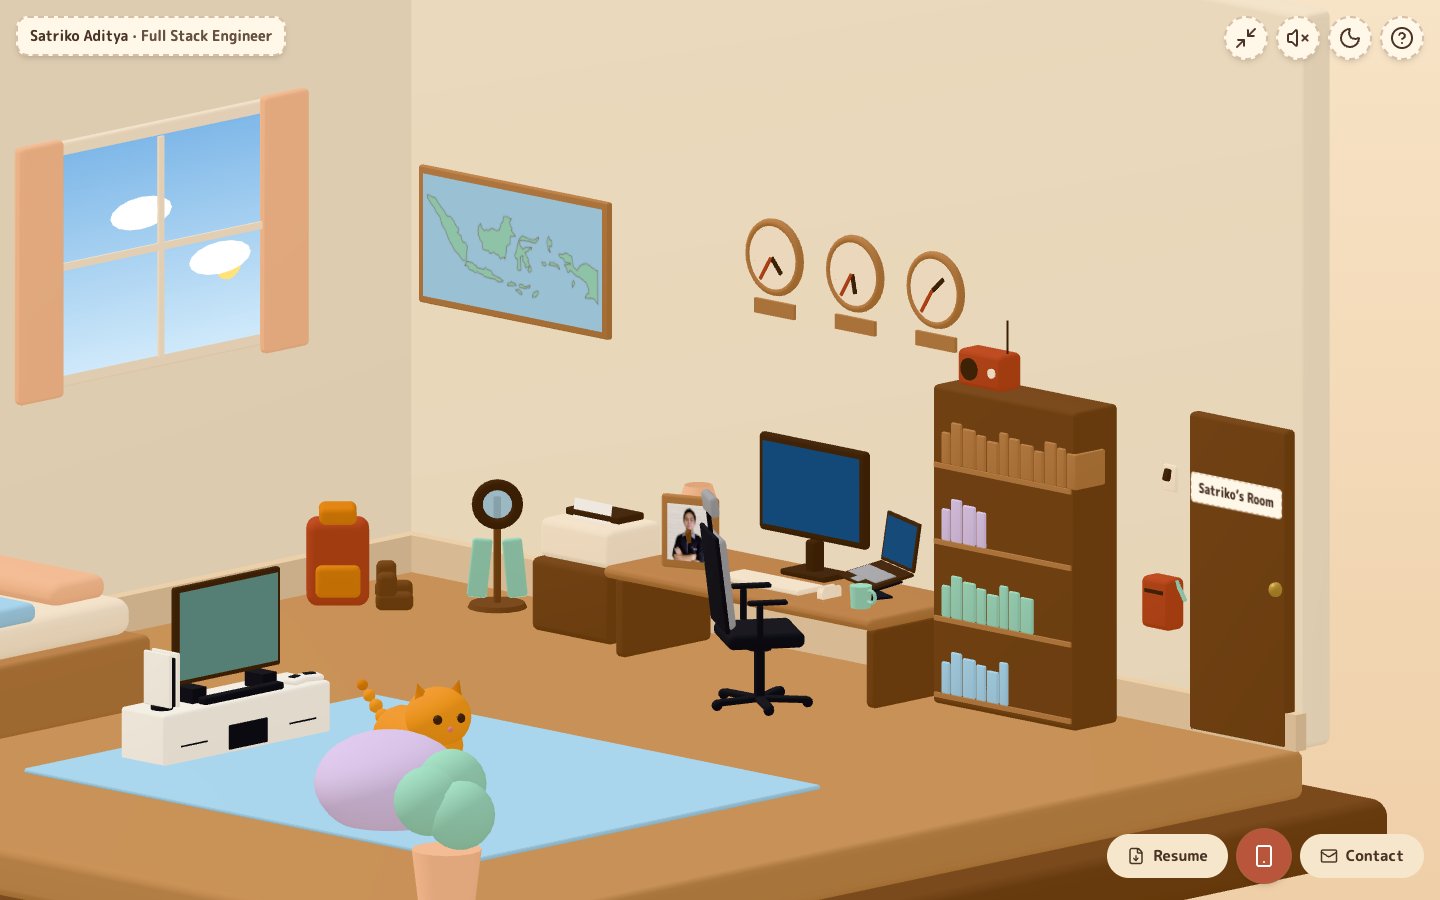
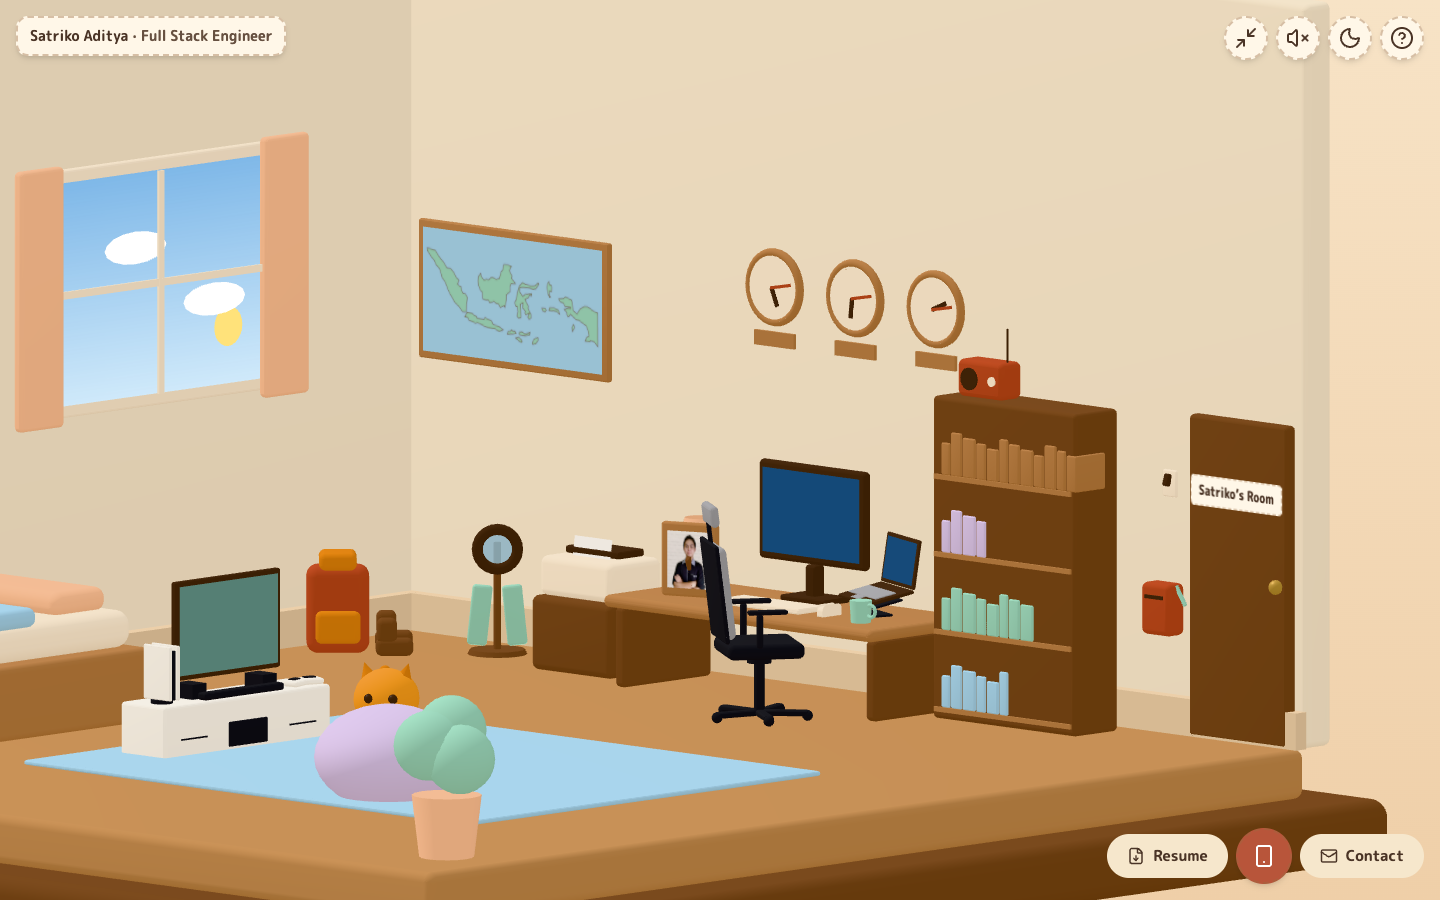
fix: wait for the panel to open in the zoom test and document the 8° angle

diff --git a/e2e/zoom.spec.ts b/e2e/zoom.spec.ts
@@ -24,6 +24,7 @@ test('scroll zooms in, a drag slides without opening anything, reset returns', a
   page,
 }, testInfo) => {
   test.skip(testInfo.project.name !== 'desktop', 'Desktop wheel and mouse')
+  test.setTimeout(60_000)
   await enterRoom(page)
   const main = page.locator('main')
   await expect(main).toHaveAttribute('data-zoomed', 'false')
@@ -60,6 +61,10 @@ test('a panel opened while zoomed in returns to the zoomed view', async ({
   await page.getByRole('button', { name: 'Open phone menu' }).click()
   await page.getByRole('link', { name: 'Skills' }).click()
   await expect(page.getByRole('dialog', { name: 'Skills' })).toBeVisible()
+  // The panel can flash before the camera's focus glide; wait until it's really open.
+  await expect(main).toHaveAttribute('data-transition', 'open', {
+    timeout: 15_000,
+  })
   await page.keyboard.press('Escape')
   await expect(page.getByRole('dialog')).toHaveCount(0)
   await expect(main).toHaveAttribute('data-transition', 'idle', {

diff --git a/docs/design/03-room-scene.md b/docs/design/03-room-scene.md
@@ -96,7 +96,7 @@ Everything is built from drei/three primitives using the clay recipe: the room s
 | Mode | Behavior |
 | --- | --- |
 | **Default** | Full-room isometric framing with margins; refits on resize. camera-controls' `fitToBox` snaps the view to the nearest axis and would destroy the isometric angle, so the fit is our own `fitIsometric()` in `CameraDirector/cameraMath.ts` (it projects the room box onto the view plane and returns the look-at point and zoom) |
-| **Free view (zoom and slide)** | With no panel open, the scroll wheel or a trackpad pinch (desktop) and a two-finger pinch (phones) zoom from the default framing (1×) up to `VIEW_MAX_ZOOM` = 2×, toward the cursor or the pinch midpoint. As the zoom grows the camera lowers smoothly (smoothstep) from the default 30° elevation to `VIEW_EYE_ELEVATION` = 18°, low but still looking a little down onto the furniture (first tried at 12°, raised after Satriko's review), still looking along the room's diagonal into the corner, so the corner becomes a straight vertical line. The camera stays orthographic (flat look; true perspective is a possible later step). While zoomed in, a one-finger or left-button drag slides the view 1:1; the pan limit shrinks with the zoom (`(1 − 1/z)` of the default view's half-size), so the view never leaves the room and zooming out recentres it. Zoom and pan ease over `VIEW_SMOOTH_SECONDS` = 0.25 (instant with reduced motion). A click that ends a drag of more than 6 px doesn't open the object under it. **Reset view** (HUD button while zoomed) and a double-click or double-tap glide back to 1×. Input is handled by `CameraDirector/useFreeView.ts` (maths in `freeView.ts`); camera-controls keeps doing the animated glides with all its own mouse and touch actions off |
+| **Free view (zoom and slide)** | With no panel open, the scroll wheel or a trackpad pinch (desktop) and a two-finger pinch (phones) zoom from the default framing (1×) up to `VIEW_MAX_ZOOM` = 2×, toward the cursor or the pinch midpoint. As the zoom grows the camera lowers smoothly (smoothstep) from the default 30° elevation to `VIEW_EYE_ELEVATION` = 8°, near eye level (Satriko tuned it after trying 12° and 18°), still looking along the room's diagonal into the corner, so the corner becomes a straight vertical line. The camera stays orthographic (flat look; true perspective is a possible later step). While zoomed in, a one-finger or left-button drag slides the view 1:1; the pan limit shrinks with the zoom (`(1 − 1/z)` of the default view's half-size), so the view never leaves the room and zooming out recentres it. Zoom and pan ease over `VIEW_SMOOTH_SECONDS` = 0.25 (instant with reduced motion). A click that ends a drag of more than 6 px doesn't open the object under it. **Reset view** (HUD button while zoomed) and a double-click or double-tap glide back to 1×. Input is handled by `CameraDirector/useFreeView.ts` (maths in `freeView.ts`); camera-controls keeps doing the animated glides with all its own mouse and touch actions off |
 | **Focus** | Each section has a `cameraPose` (`target`, `offset`, `zoomFactor`) in the registry. Clicking glides there with drei `CameraControls` (`setLookAt` and `zoomTo`, animated, `smoothTime` 0.35). Zoom limits are widened while a pose is applied (up to 4× the fitted zoom, against 2× in the free view) so poses have headroom |
 | **Return** | The glide back starts as soon as the panel begins closing, and continues through the idle state. It returns to the visitor's free view (same zoom and slide), not always to the default |
 | **Parallax (desktop)** | The pointer position shifts the view slightly (±0.026 rad, about 1.5°, around; ±0.017 rad, about 1°, up/down), smoothed. Off while a panel is open or focusing, on touch devices, and with reduced motion. It stays on at every zoom level |

diff --git a/docs/design/08-decision-log.md b/docs/design/08-decision-log.md
@@ -53,7 +53,7 @@ Every decision made during the brainstorming session on **2026-10-21**, in the o
 | 42 | Laptop on the desk | Decor vs. its own clickable object vs. part of the PC's group; flat vs. raised on a stand; lamp moved or removed | **Part of the PC's hover-and-click group** (one setup: monitor, keyboard, mouse, laptop); **raised on a slim stand**, open about 120°, turned a little toward the monitor, with a screen that glows like the PC's; the **desk lamp moves to the printer side** of the desk and the mug stays | Matches Satriko's real setup, where the laptop works beside the monitor. One group keeps a single way into Work experience | Satriko |
 | 43 | TV setup | Keep the generic TV and console vs. model Satriko's: white cabinet with drawers and an open shelf, soundbar, PS5 standing on the left, two controllers on the right | **Modelled on the real setup,** soundbar included, white cabinet with drawer fronts and an open shelf; the TV grows to the cabinet's width | Same reason as the chair and laptop: the room shows Satriko's real things. White and the chair's dark grey come from the existing palette (`paper`, `chairFrame`) | Satriko |
 | 44 | Clock height | Keep the clocks high on the wall (y 4.2) vs. level with the map | **Level with the map:** the clock row (faces and city plates) is centred at the map's height, y 2.76, still well above the monitor | The back wall reads as one row of wall pieces instead of two heights | Satriko |
-| 45 | Zooming into the room | Fixed camera vs. zoom; true perspective vs. lowering the angle with the flat look; 1.5× / 2× / 3×; drag slides vs. turns; phones like desktop or as before | **Zoom 1× to 2×** (wheel, trackpad or two-finger pinch, toward the cursor), the camera **lowering from 30° to 18°** as it zooms (12° was tried first and raised after review) and staying orthographic; **drag slides** while zoomed; **phones work the same** (replaces the one-finger rotate of decision #8); closing a panel **returns to the zoomed view**; a **Reset view** button and double-click | Satriko wanted to look closer and from a lower, corner-aligned angle like a reference picture of a room corner. The flat look was tried first; true perspective stays an option after seeing it | Satriko |
+| 45 | Zooming into the room | Fixed camera vs. zoom; true perspective vs. lowering the angle with the flat look; 1.5× / 2× / 3×; drag slides vs. turns; phones like desktop or as before | **Zoom 1× to 2×** (wheel, trackpad or two-finger pinch, toward the cursor), the camera **lowering from 30° to 8°** as it zooms (Satriko tuned it after trying 12° and 18°) and staying orthographic; **drag slides** while zoomed; **phones work the same** (replaces the one-finger rotate of decision #8); closing a panel **returns to the zoomed view**; a **Reset view** button and double-click | Satriko wanted to look closer and from a lower, corner-aligned angle like a reference picture of a room corner. The flat look was tried first; true perspective stays an option after seeing it | Satriko |
 
 ## Design sections reviewed and approved
 
